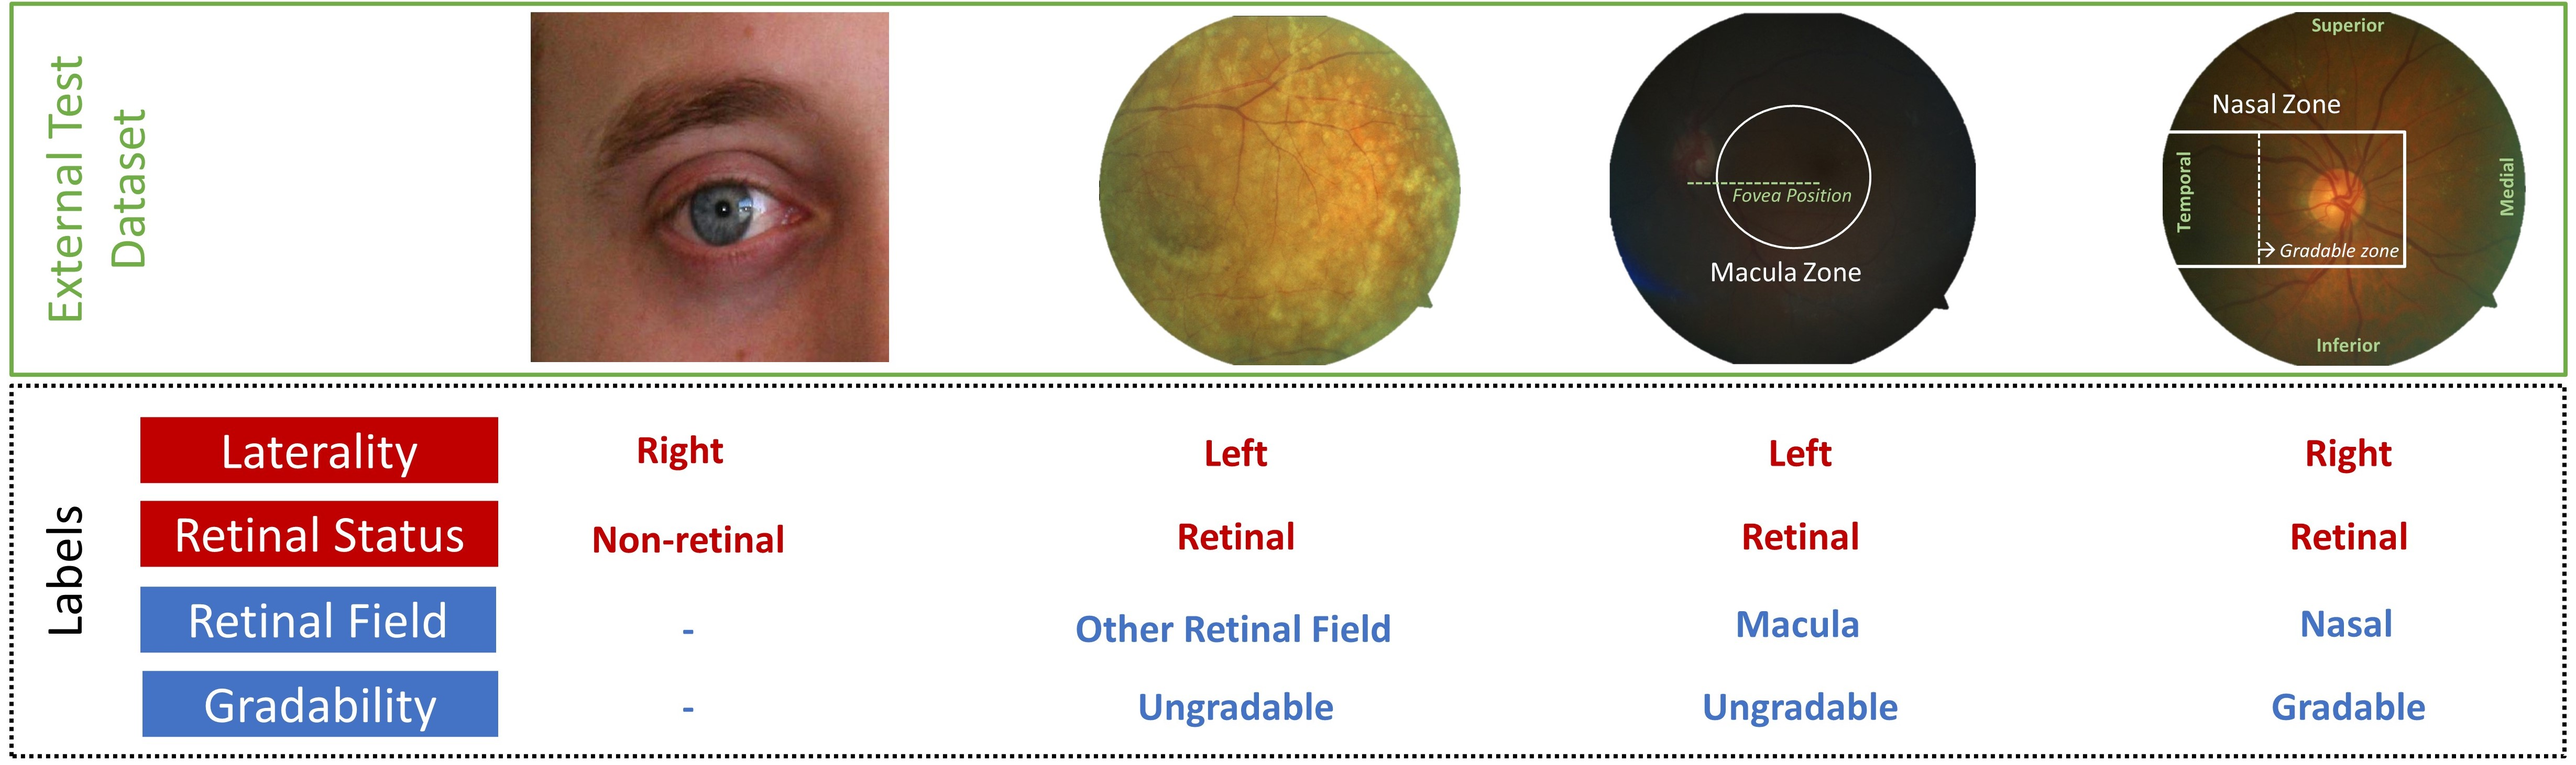
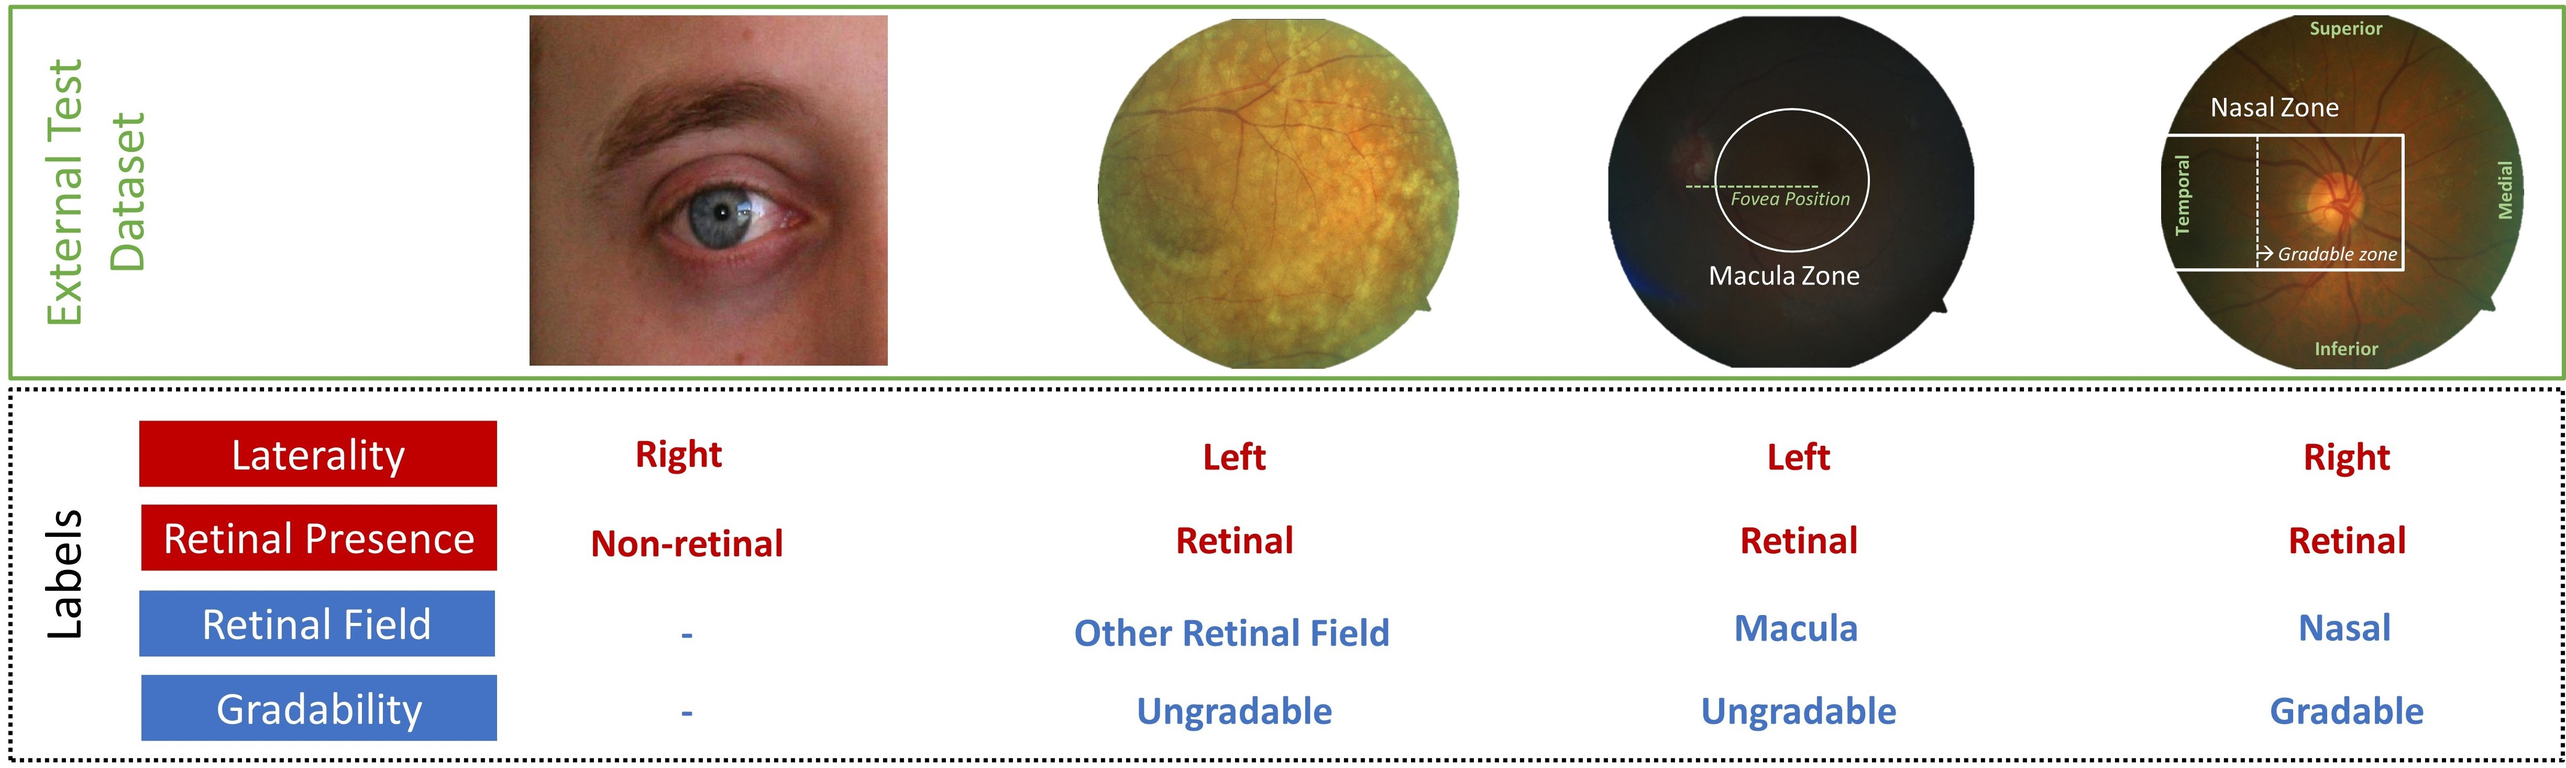
Final

diff --git a/tf_trainers/curation_trainers.py b/tf_trainers/curation_trainers.py
@@ -1,4 +1,4 @@
-# Tensorflow Image Curation Models
+# Tensorflow Image Curation Model Trainer
 # Paul Nderitu and Diabetes UK 2021
 
 import os
@@ -20,7 +20,7 @@ class SingleOutputClassifier:
     """
     Class to train, tune and validate a CNN model to classify images for single curation tasks.
     Uses transfer learning with the EfficientNet-B0 as the base model by default with an image input size of 224x224x3.
-    Images are not flipped horizontally where laterality is unknown [Laterality and Retinal_Status Models].
+    Images are not flipped horizontally where laterality is unknown [Laterality and Retinal_Presence Models].
     Can train binary and multi-class models.
     """
 
@@ -35,8 +35,8 @@ class SingleOutputClassifier:
         :keyword save_path: Path to save the model training and validation outputs
         :keyword label_column: Name of the label column
         :keyword class_dict: Dictionary of the class name and value pair
-        :keyword height: Height to resize images for the model (default: 224 --> for EfficientNetB0)
-        :keyword width: Width to resize images for the model (default: 224 --> for EfficientNetB0)
+        :keyword height: Height to resize images for the model (default: 224)
+        :keyword width: Width to resize images for the model (default: 224)
         :keyword batch_size: Batch size (default: 32)
         :keyword use_class_weights: Bool, if True, apply class weights (default: True)
         :keyword max_epochs: Max epochs to train for (early stopping is employed) (default: 50)
@@ -70,8 +70,6 @@ class SingleOutputClassifier:
             self.loss = losses.BinaryCrossentropy()
         elif self.nclasses > 2:
             self.loss = losses.CategoricalCrossentropy()
-
-        print(os.path.exists(os.path.join(self.save_path, 'TF', 'Model', self.label_column)))
 
         # Add to self
         self.model_path = os.path.join(self.save_path, 'TF', 'Model', self.label_column)
@@ -129,9 +127,9 @@ class SingleOutputClassifier:
 
         # Drop the non-retinal images if training the gradability or retinal_field models
         if self.label_column in ['Gradability']:
-            select_img_df = all_img_df[all_img_df['Retinal_Status'] == 1]
+            select_img_df = all_img_df[all_img_df['Retinal_Presence'] == 1]
         elif self.label_column in ['Retinal_Field']:
-            select_img_df = all_img_df[all_img_df['Retinal_Status'] == 1]
+            select_img_df = all_img_df[all_img_df['Retinal_Presence'] == 1]
         else:
             select_img_df = all_img_df
 
@@ -218,8 +216,8 @@ class SingleOutputClassifier:
         # Resize image
         resized_image = tf.image.resize(image, size=(self.height, self.width))
 
-        # If the model in not a laterality or Retinal_Status model, flip all left eye images to right orientation
-        if self.label_column not in ['Laterality', 'Retinal_Status']:
+        # If the model in not a laterality or Retinal_Presence model, flip all left eye images to right orientation
+        if self.label_column not in ['Laterality', 'Retinal_Presence']:
             if laterality == tf.constant(1, dtype=laterality.dtype):
                 resized_image = tf.image.flip_left_right(resized_image)
             elif laterality == tf.constant(0, dtype=laterality.dtype):
@@ -269,7 +267,7 @@ class SingleOutputClassifier:
         """
 
         # Check the correct dataset name has been used
-        assert dataset_name in ['train', 'aug_train', 'val'], 'Dataset name must be train, val, ' \
+        assert dataset_name in ['train', 'aug_train', 'val'], 'Dataset name must be train, aug_train or val, ' \
                                                               'got {}'.format(dataset_name)
 
         # Get a batch of images and labels
@@ -303,8 +301,8 @@ class SingleOutputClassifier:
         :return: TF dataset
         """
 
-        # If this is for a laterality or retinal_status model then this column does not exist
-        if self.label_column not in ['Laterality', 'Retinal_Status']:
+        # If this is for a laterality or Retinal_Presence model then this column does not exist
+        if self.label_column not in ['Laterality', 'Retinal_Presence']:
             laterality = df['Laterality']
         else:
             laterality = None
@@ -471,11 +469,11 @@ class SingleOutputClassifier:
 
         return model
 
-    def tune_model(self, tune_iterations: int = 20):
+    def tune_model(self, tune_iterations: int = 10):
         """
         Tunes classification model parameters and saves as a log via the Tensorboard callback.
 
-        :param tune_iterations: Number of times to randomly sample from the hyperparameter intervals (default: 20)
+        :param tune_iterations: Number of times to randomly sample from the hyperparameter intervals (default: 10)
         """
 
         # Get the train and val datasets
@@ -509,7 +507,7 @@ class SingleOutputClassifier:
             model = self._build_model()
 
             # Fit and train for 2 epochs
-            model.fit(train_ds, steps_per_epoch=self.train_steps, epochs=5, class_weight=class_weights)
+            model.fit(train_ds, steps_per_epoch=self.train_steps, epochs=3, class_weight=class_weights)
 
             # Get performance metrics for the hparams
             loss, m_auc, m_prc = model.evaluate(val_ds, steps=self.val_steps)
@@ -607,7 +605,7 @@ class SingleOutputClassifier:
         """
 
         # Print laterality message
-        if self.label_column not in ['Laterality', 'Retinal_Status']:
+        if self.label_column not in ['Laterality', 'Retinal_Presence']:
             print('Left eye images will be flipped to right eye orientation')
 
         # Get the train and val datasets
@@ -669,9 +667,9 @@ class MultiOutputClassifier(SingleOutputClassifier):
 
         # If training gradability or retinal_field model then drop the non-retinal images
         if 'Gradability' in [self.label_column, self.aux_column]:
-            select_img_df = all_img_df[all_img_df['Retinal_Status'] == 1]
+            select_img_df = all_img_df[all_img_df['Retinal_Presence'] == 1]
         elif 'Retinal_Field' in [self.label_column, self.aux_column]:
-            select_img_df = all_img_df[all_img_df['Retinal_Status'] == 1]
+            select_img_df = all_img_df[all_img_df['Retinal_Presence'] == 1]
         else:
             select_img_df = all_img_df
 
@@ -732,9 +730,9 @@ class MultiOutputClassifier(SingleOutputClassifier):
         :return: TF dataset
         """
 
-        # If this is for a laterality or retinal_status model then this column does not exist
-        if self.label_column not in ['Laterality', 'Retinal_Status']:
-            if self.aux_column not in ['Laterality', 'Retinal_Status']:
+        # If this is for a laterality or Retinal_Presence model then this column does not exist
+        if self.label_column not in ['Laterality', 'Retinal_Presence']:
+            if self.aux_column not in ['Laterality', 'Retinal_Presence']:
                 laterality = df['Laterality']
             else:
                 laterality = None
@@ -792,7 +790,7 @@ class MultiOutputClassifier(SingleOutputClassifier):
         """
 
         # Check the correct dataset name has been used
-        assert dataset_name in ['train', 'aug_train', 'val'], 'Dataset name must be train, val ' \
+        assert dataset_name in ['train', 'aug_train', 'val'], 'Dataset name must be train, aug_train or val ' \
                                                               'got {}'.format(dataset_name)
 
         # Get a batch of images and labels
@@ -980,11 +978,11 @@ class MultiOutputClassifier(SingleOutputClassifier):
         model.fit(train_dataset, steps_per_epoch=self.train_steps, class_weight=class_weights, epochs=self.max_epochs,
                   validation_steps=self.val_steps, validation_data=val_dataset, callbacks=[ES, MS2, TB2, LR2])
 
-    def tune_model(self, tune_iterations: int = 20):
+    def tune_model(self, tune_iterations: int = 10):
         """
         Tunes classification model parameters and saves as a log via the Tensorboard callback.
 
-        :param tune_iterations: Number of times to randomly sample from the hyperparameter intervals (default: 20)
+        :param tune_iterations: Number of times to randomly sample from the hyperparameter intervals (default: 10)
         """
 
         # Get the train and val datasets
@@ -1014,7 +1012,7 @@ class MultiOutputClassifier(SingleOutputClassifier):
             model = self._build_model()
 
             # Fit and train for 2 epochs
-            model.fit(train_ds, steps_per_epoch=self.train_steps, class_weight=class_weights, epochs=5)
+            model.fit(train_ds, steps_per_epoch=self.train_steps, class_weight=class_weights, epochs=3)
 
             # Get performance metrics for the hparams
             total_loss, primary_loss, aux_loss, primary_auc, aux_auc, primary_prc, aux_prc = model.evaluate(

diff --git a/tf_predict/curation_prediction.py b/tf_predict/curation_prediction.py
@@ -1,4 +1,4 @@
-# Tensorflow Image Curation Models
+# Tensorflow Image Curation Prediction
 # Paul Nderitu and Diabetes UK 2021
 
 import os
@@ -16,7 +16,7 @@ plt.style.use('seaborn-deep')
 # noinspection PyBroadException
 class SingleOutputPredictor:
     """
-    This class takes a trained TF ML model and classifies images for a given label and returns a CSV file with the class
+    This class takes a trained TF model and classifies images for a given label and returns a CSV file with the class
     predictions added as new column. For binary classes the prediction score is returned but for multi-class
     predictions the argmax integer class label is returned. Can also perform model testing with CM and ROC curves
     plotted.
@@ -91,8 +91,12 @@ class SingleOutputPredictor:
         all_img_df = all_img_df.replace(self.class_dict)
 
         # Select the correct testing images for gradability and retinal field models (known laterality retinal images)
-        select_img_df = all_img_df[all_img_df['Known_Laterality_Retinal'] == 'Yes']
-
+        if self.label_column in ['Gradability']:
+            select_img_df = all_img_df[all_img_df['Known_Laterality_Retinal'] == 'Yes']
+        elif self.label_column in ['Retinal_Field']:
+            select_img_df = all_img_df[all_img_df['Known_Laterality_Retinal'] == 'Yes']
+        else:
+            select_img_df = all_img_df
         dropped_images = all_img_df.index.size - select_img_df.index.size
 
         # Reset index after dropping examples
@@ -118,8 +122,8 @@ class SingleOutputPredictor:
         # Resize image
         resized_image = tf.image.resize(image, size=(self.height, self.width))
 
-        # If the model in not a laterality or retinal_status trainer then flip all left eye images to right orientation
-        if self.label_column not in ['Laterality', 'Retinal_Status']:
+        # If model in not a laterality or Retinal_Presence trainer then flip all left eye images to right orientation
+        if self.label_column not in ['Laterality', 'Retinal_Presence']:
             if laterality == tf.constant(1, dtype=laterality.dtype):
                 resized_image = tf.image.flip_left_right(resized_image)
             elif laterality == tf.constant(0, dtype=laterality.dtype):
@@ -140,8 +144,8 @@ class SingleOutputPredictor:
         :return: TF dataset
         """
 
-        # If this is for a laterality or Retinal_Status model then don't use this column
-        if self.label_column not in ['Laterality', 'Retinal_Status']:
+        # If this is for a laterality or Retinal_Presence model then don't use this column
+        if self.label_column not in ['Laterality', 'Retinal_Presence']:
             laterality = df['Laterality']
         else:
             laterality = None
@@ -158,7 +162,7 @@ class SingleOutputPredictor:
 
         print('Getting Predictions')
 
-        if self.label_column not in ['Laterality', 'Retinal_Status']:
+        if self.label_column not in ['Laterality', 'Retinal_Presence']:
             print('Left eye images will be flipped to right eye orientation')
 
         # Load the model
@@ -266,7 +270,7 @@ class SingleOutputPredictor:
 # noinspection PyBroadException
 class MultiOutputPredictor(SingleOutputPredictor):
     """
-    Extension class loads a TF ML model and classifies images for a given primary and auxiliary label.
+    Extension class loads a TF model and classifies images for a given primary and auxiliary label.
     """
 
     def __init__(self, **kwargs):
@@ -307,7 +311,12 @@ class MultiOutputPredictor(SingleOutputPredictor):
         all_img_df = all_img_df.replace(self.aux_dict)
 
         # Select the correct testing images for gradability and retinal field models (known laterality retinal images)
-        select_img_df = all_img_df[all_img_df['Known_Laterality_Retinal'] == 'Yes']
+        if self.label_column in ['Gradability']:
+            select_img_df = all_img_df[all_img_df['Known_Laterality_Retinal'] == 'Yes']
+        elif self.label_column in ['Retinal_Field']:
+            select_img_df = all_img_df[all_img_df['Known_Laterality_Retinal'] == 'Yes']
+        else:
+            select_img_df = all_img_df
         dropped_images = all_img_df.index.size - select_img_df.index.size
 
         # Reset index after dropping examples
@@ -324,9 +333,9 @@ class MultiOutputPredictor(SingleOutputPredictor):
         :return: TF dataset
         """
 
-        # If this is for a laterality or Retinal_Status model then this column does not exist
-        if self.label_column not in ['Laterality', 'Retinal_Status']:
-            if self.aux_column not in ['Laterality', 'Retinal_Status']:
+        # If this is for a laterality or Retinal_Presence model then this column does not exist
+        if self.label_column not in ['Laterality', 'Retinal_Presence']:
+            if self.aux_column not in ['Laterality', 'Retinal_Presence']:
                 laterality = df['Laterality']
             else:
                 laterality = None
@@ -345,7 +354,7 @@ class MultiOutputPredictor(SingleOutputPredictor):
 
         print('Getting Predictions')
 
-        if self.label_column not in ['Laterality', 'Retinal_Status']:
+        if self.label_column not in ['Laterality', 'Retinal_Presence']:
             print('Left eye images will be flipped to right eye orientation')
 
         # Load the model

diff --git a/main.py b/main.py
@@ -19,15 +19,15 @@ if __name__ == '__main__':
     parser.add_argument('-l', '--label_column', type=str, default='Laterality',
                         help="Name of the label column (default: Laterality)")
 
-    parser.add_argument('-al', '--aux_column', type=str, default='Retinal_Status',
+    parser.add_argument('-al', '--aux_column', type=str, default='Retinal_Presence',
                         help="Name of the auxiliary label column if training or predicting using a multi-output model"
-                             "(default: Retinal_Status)")
+                             "(default: Retinal_Presence)")
 
     parser.add_argument('-mt', '--model_type', type=str, default='multi-output',
-                        help='Select the type of modelling approach (default: multi-output)')
+                        help='Select the modelling approach (default: multi-output)')
 
-    parser.add_argument('-m', '--mode', type=str, default="predict",
-                        help='Select the mode. Must be train, tune, test or predict (default: train)')
+    parser.add_argument('-m', '--mode', type=str, default="train",
+                        help='Select the mode. Must be  tune, train, test or predict (default: train)')
 
     parser.add_argument('-ucw', '--use_class_weights', type=bool, default=True,
                         help="If class weights should be used (single-output models only) (default: True)")
@@ -41,7 +41,7 @@ if __name__ == '__main__':
                         help="Regularisation (default: 0.001)")
 
     parser.add_argument('-mp', '--model_path', type=str,
-                        help='Path to a saved Tensorflow model if testing or getting predictions')
+                        help='Path to a saved Tensorflow model if testing or predicting')
 
     # Get args and add config
     args = parser.parse_args()
@@ -70,7 +70,7 @@ if __name__ == '__main__':
         trainer = MultiOutputPredictor(**config)
 
     else:
-        raise AttributeError("No or invalid model_type and mode provided, must be 'single-output' or 'multi-output' "
+        raise AttributeError("Invalid model_type and mode provided, must be 'single-output' or 'multi-output' "
                              "model_type with either 'train', 'tune', 'test' or 'predict' modes")
 
     # Run training, tuning, testing or prediction as per the mode
@@ -88,14 +88,14 @@ if __name__ == '__main__':
 
     # Test
     if config['mode'] == 'test':
-        assert config['model_path'] is not None, ' No model path provided'
+        assert config['model_path'] is not None, 'No model path provided'
         assert config['label_column'] is not None or config['aux_column'], 'No labels provided'
         print('-------------- Selected mode: test --------------\n')
         trainer.test_model()
 
     # Predict
     if config['mode'] == 'predict':
-        assert config['model_path'] is not None, ' No model path provided'
+        assert config['model_path'] is not None, 'No model path provided'
         assert config['label_column'] is not None or config['aux_column'], 'No labels provided'
         print('-------------- Selected mode: predict --------------\n')
         trainer.get_predictions()

diff --git a/utils/parse_config.py b/utils/parse_config.py
@@ -7,8 +7,8 @@ def parse_config(args):
 
     # Add the label class dictionaries
     if config_dict['label_column'] == 'Laterality':
-        config_dict.update({'class_dict': {'Right': 0, 'Left': 1, 'N/A': 2}})
-    elif config_dict['label_column'] == 'Retinal_Status':
+        config_dict.update({'class_dict': {'Right': 0, 'Left': 1, 'Unidentifiable': 2}})
+    elif config_dict['label_column'] == 'Retinal_Presence':
         config_dict.update({'class_dict': {'Non-Retinal': 0, 'Retinal': 1}})
     elif config_dict['label_column'] == 'Retinal_Field':
         config_dict.update({'class_dict': {'Macula': 0, 'Nasal': 1, 'ORF': 2}})
@@ -19,8 +19,8 @@ def parse_config(args):
 
     # Add the label class dictionaries
     if config_dict['aux_column'] == 'Laterality':
-        config_dict.update({'aux_dict': {'Right': 0, 'Left': 1, 'N/A': 2}})
-    elif config_dict['aux_column'] == 'Retinal_Status':
+        config_dict.update({'aux_dict': {'Right': 0, 'Left': 1, 'Unidentifiable': 2}})
+    elif config_dict['aux_column'] == 'Retinal_Presence':
         config_dict.update({'aux_dict': {'Non-Retinal': 0, 'Retinal': 1}})
     elif config_dict['aux_column'] == 'Retinal_Field':
         config_dict.update({'aux_dict': {'Macula': 0, 'Nasal': 1, 'ORF': 2}})

diff --git a/README.md b/README.md
@@ -15,7 +15,7 @@ This repository contains a Tensorflow 2.7.0 implementation from the paper
 *  Ground truth labels for the external validation dataset (in *ground_truth/external_test_labels.csv*).
 
 ## Ground Truth Definitions
-Labels for laterality, retinal status, retinal field and gradability were defined by an ophthalmology fellow.
+Labels for laterality, retinal presence, retinal field and gradability were defined by an ophthalmology fellow.
 The figure below shows examples from the external test set. More details can be found in our paper [supplementary materials]().
 
 ![fig](ground_truth/gt_definitions.jpg )
@@ -27,7 +27,7 @@ development dataset and will be randomly split 80/20 into train/val dataset with
 **If training, tuning or testing ensure the following columns are provided and named as follows.**
 - Image_ID
 - Laterality 
-- Retinal_Status
+- Retinal_Presence
 - Retinal_Field 
 - Gradability 
 - Known_Laterality_Retinal (*For Retinal_Field and Gradability models*)
@@ -63,7 +63,7 @@ multi-class labels saved in the original csv.
 If performing inference (test or predict modes) a path to the trained model (-mp) must also be provided.
 
 ### Multi-output model with tune, train, test or predict modes
-```main.py  -dp ['path to csv'] -ip ['path to images'] -sp ['path to save logs/models/examples/results'] -l ['label column e.g., Laterality']  -al ['second label column e.g., Retinal_Status'] -mt multi-output -m ['mode']```
+```main.py  -dp ['path to csv'] -ip ['path to images'] -sp ['path to save logs/models/examples/results'] -l ['label column e.g., Laterality']  -al ['second label column e.g., Retinal_Presence'] -mt multi-output -m ['mode']```
 
 If performing inference (test or predict modes) a path to the trained model (-mp) must also be provided.
 
